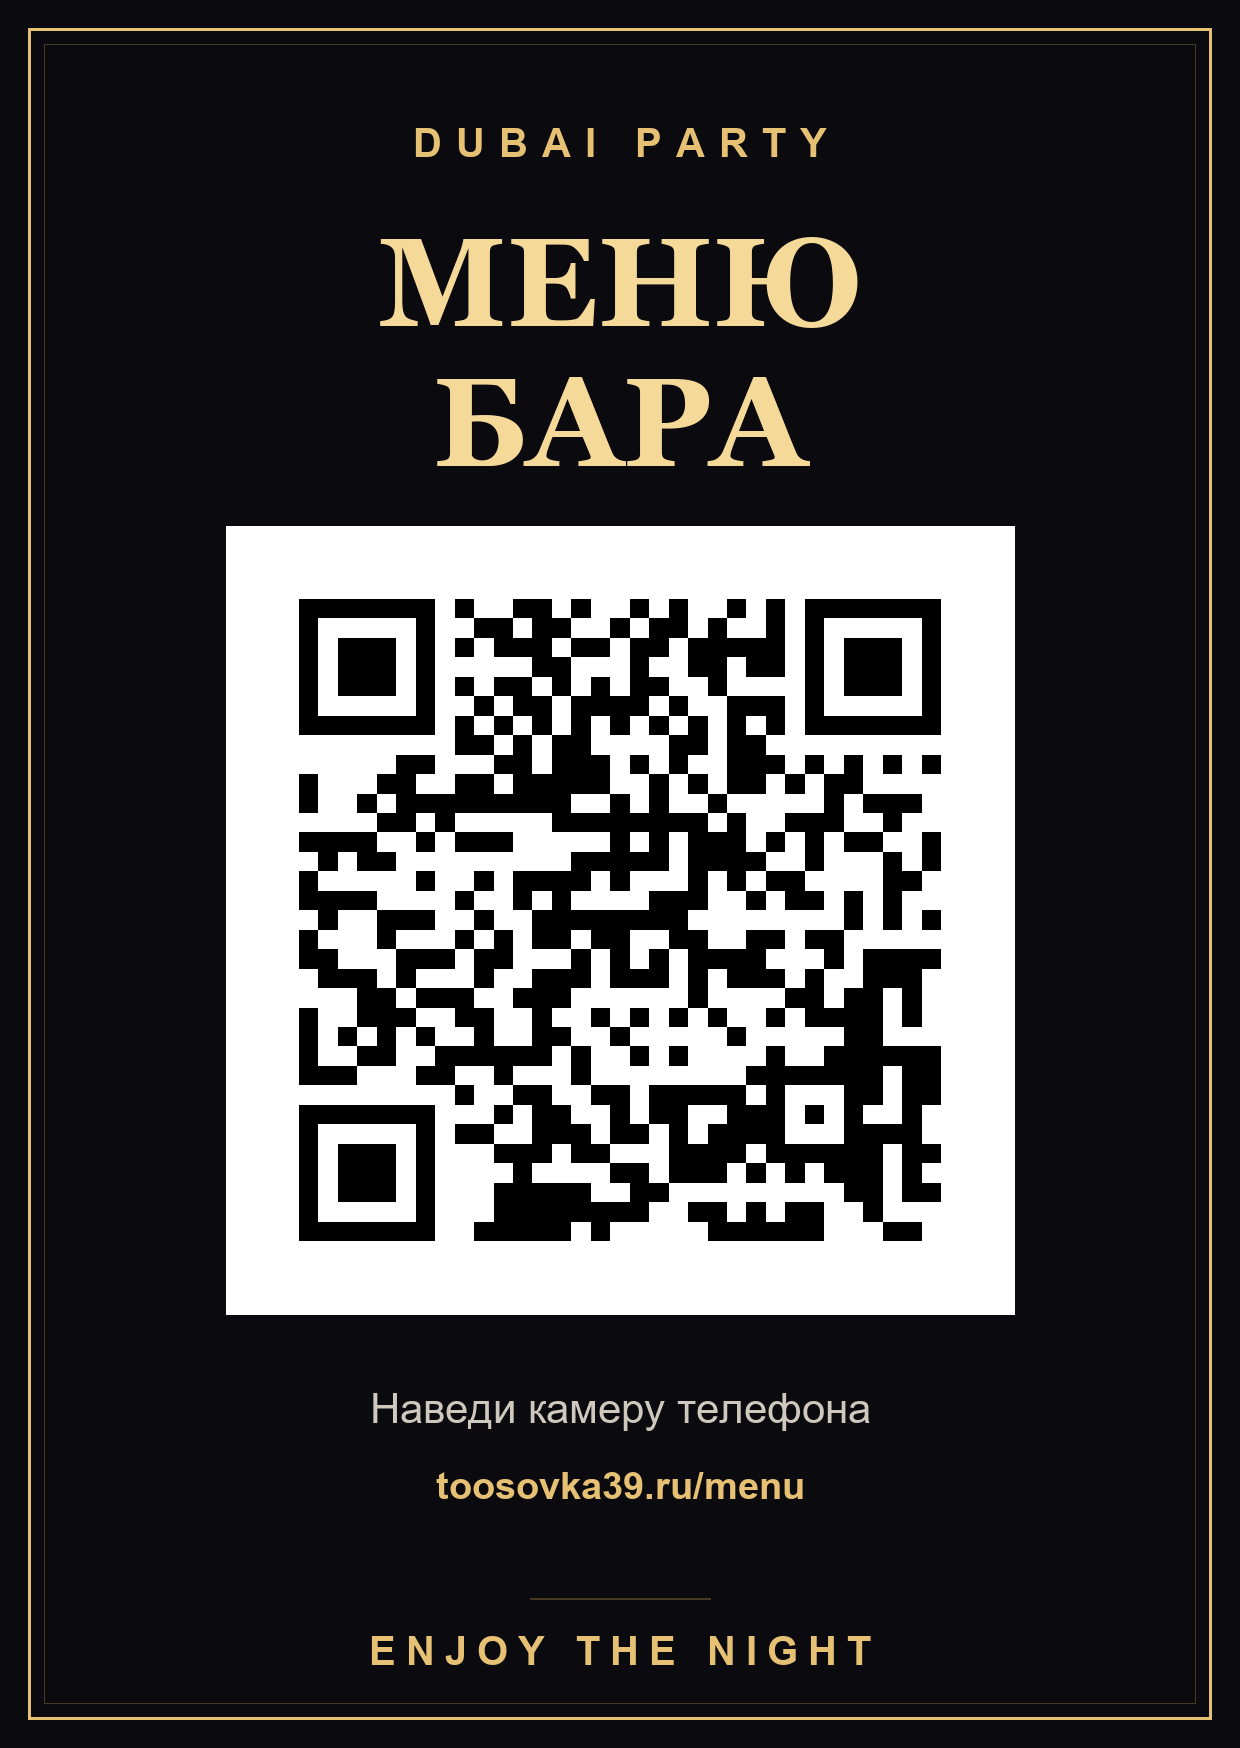
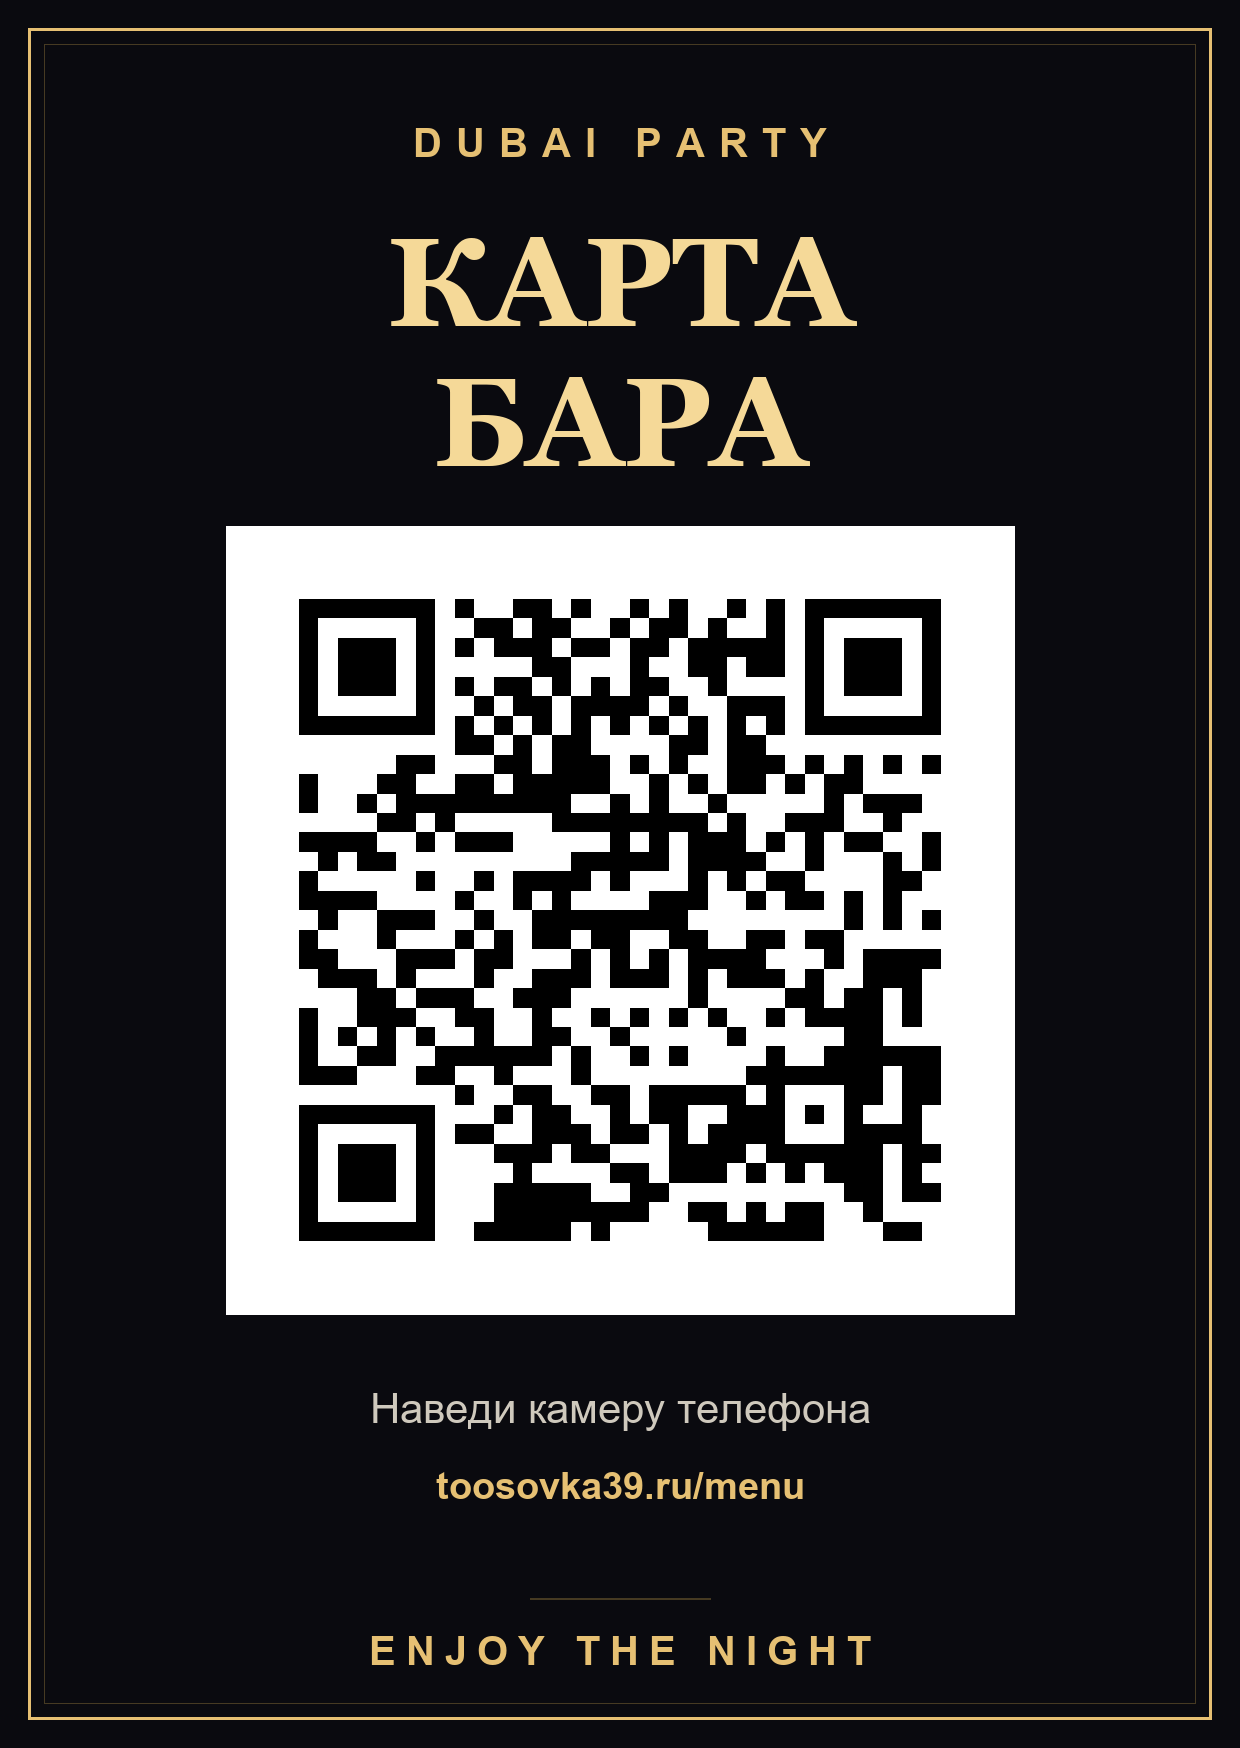
feat: кнопка «Карта бара» по центру первого экрана
- «Меню бара» переименовано в «Карта бара» везде: шапка, футер,
  страница после оплаты, сама страница и табличка с QR-кодом
- кнопка переехала из угла шапки в центр под логотип — её видно
  сразу, до прокрутки; стала крупнее и в золотой рамке

Changed region(s): [[0.3065, 0.1236, 0.7048, 0.1854]]

diff --git a/public/menu.html b/public/menu.html
@@ -5,9 +5,9 @@
   <!-- пинч-зум разрешён специально: меню читают с телефона и увеличивают пальцами -->
   <meta name="viewport" content="width=device-width, initial-scale=1, maximum-scale=6, user-scalable=yes, viewport-fit=cover" />
   <meta name="theme-color" content="#06060a" />
-  <title>Меню бара — DUBAI PARTY</title>
-  <meta name="description" content="Барное меню DUBAI PARTY: фирменные коктейли, классика, шоты и сеты шотов." />
-  <meta property="og:title" content="Меню бара — DUBAI PARTY" />
+  <title>Карта бара — DUBAI PARTY</title>
+  <meta name="description" content="Карта бара DUBAI PARTY: фирменные коктейли, классика, шоты и сеты шотов." />
+  <meta property="og:title" content="Карта бара — DUBAI PARTY" />
   <meta property="og:image" content="https://toosovka39.ru/menu.jpg" />
 
   <!-- Картинка меню — единственное тяжёлое на странице, поэтому качаем её первой -->
@@ -121,20 +121,20 @@
 
   <header class="bar">
     <a class="bar__back" href="/">← На сайт</a>
-    <span class="bar__title">Меню бара</span>
+    <span class="bar__title">Карта бара</span>
     <a class="bar__full" href="menu.webp" target="_blank" rel="noopener">Оригинал</a>
   </header>
 
   <div class="viewer" id="viewer">
     <picture>
       <source srcset="menu.webp" type="image/webp" />
-      <img src="menu.jpg" alt="Барное меню DUBAI PARTY: коктейли, шоты, сеты шотов"
+      <img src="menu.jpg" alt="Карта бара DUBAI PARTY: коктейли, шоты, сеты шотов"
            id="menu-img" width="1536" height="1024" fetchpriority="high" decoding="async" />
     </picture>
   </div>
 
   <div class="foot">
-    <p class="hint" id="hint">Нажми на меню, чтобы приблизить · поверни телефон боком — станет крупнее</p>
+    <p class="hint" id="hint">Нажми на карту, чтобы приблизить · поверни телефон боком — станет крупнее</p>
     <a class="buy" href="/#tickets">Взять билет на вечеринку →</a>
   </div>
 
@@ -158,7 +158,7 @@
         hint.textContent = "Нажми ещё раз, чтобы отдалить";
       } else {
         viewer.scrollTo(0, 0);
-        hint.textContent = "Нажми на меню, чтобы приблизить · поверни телефон боком — станет крупнее";
+        hint.textContent = "Нажми на карту, чтобы приблизить · поверни телефон боком — станет крупнее";
       }
     });
 

diff --git a/public/style.css b/public/style.css
@@ -51,14 +51,8 @@ body::after {
 
 /* ---------- Шапка ---------- */
 .topbar {
-  padding: 22px 0 26px;
-}
-/* Логотип слева, кнопка меню справа — меню должно быть видно сразу, без прокрутки */
-.topbar__row {
-  display: flex;
-  align-items: center;
-  justify-content: space-between;
-  gap: 14px;
+  text-align: center;
+  padding: 22px 0 24px;
 }
 .brand {
   font-family: var(--font-display);
@@ -69,29 +63,31 @@ body::after {
   text-shadow: 0 2px 20px rgba(0,0,0,0.6);
 }
 .brand span { color: var(--gold); margin-left: 7px; }
-.topbar__menu {
-  flex: 0 0 auto;
-  padding: 9px 18px;
-  border-radius: 100px;
-  border: 1px solid var(--line);
-  background: rgba(0, 0, 0, 0.42);
-  backdrop-filter: blur(8px);
-  color: var(--gold-2);
-  font-size: 0.9rem;
-  font-weight: 600;
-  letter-spacing: 0.02em;
-  white-space: nowrap;
-  transition: border-color 0.2s ease, background 0.2s ease;
-}
-.topbar__menu:hover { border-color: var(--gold); background: rgba(230, 192, 115, 0.1); }
 .event-meta {
-  margin-top: 16px;
-  text-align: center;
+  margin-top: 10px;
   color: var(--muted);
   font-size: 0.9rem;
   letter-spacing: 0.02em;
   text-shadow: 0 1px 8px rgba(0,0,0,0.7);
 }
+/* Карта бара — по центру под шапкой: видно сразу, до всякой прокрутки */
+.topbar__menu {
+  display: inline-flex;
+  align-items: center;
+  margin-top: 18px;
+  padding: 12px 26px;
+  border-radius: 100px;
+  border: 1px solid var(--gold);
+  background: rgba(0, 0, 0, 0.42);
+  backdrop-filter: blur(8px);
+  color: var(--gold-2);
+  font-size: 0.98rem;
+  font-weight: 700;
+  letter-spacing: 0.02em;
+  white-space: nowrap;
+  transition: background 0.2s ease, transform 0.2s ease;
+}
+.topbar__menu:hover { background: rgba(230, 192, 115, 0.12); transform: translateY(-2px); }
 
 /* ---------- Главный текст ---------- */
 .hero { text-align: center; padding: 0 0 30px; }

diff --git a/public/index.html b/public/index.html
@@ -39,12 +39,10 @@
 
   <main class="page">
     <header class="topbar">
-      <div class="topbar__row">
-        <a class="brand" href="/">DUBAI<span>PARTY</span></a>
-        <!-- Меню бара: та же страница, на которую ведёт QR-код со столов -->
-        <a class="topbar__menu" href="/menu">Меню бара</a>
-      </div>
+      <a class="brand" href="/">DUBAI<span>PARTY</span></a>
       <p class="event-meta">1 августа · Правая Набережная 21 · Калининград</p>
+      <!-- Карта бара: та же страница, на которую ведёт QR-код со столов -->
+      <a class="topbar__menu" href="/menu">Карта бара →</a>
     </header>
 
     <section class="hero">
@@ -207,7 +205,7 @@
     </section>
 
     <section class="actions">
-      <a class="btn btn--line" href="/menu">Меню бара</a>
+      <a class="btn btn--line" href="/menu">Карта бара</a>
       <a class="btn btn--line" href="https://t.me/TOOSOVKA39" target="_blank" rel="noopener">Telegram</a>
       <a class="btn btn--line" href="https://instagram.com/imgolod" target="_blank" rel="noopener">Instagram</a>
     </section>

diff --git a/public/success.html b/public/success.html
@@ -88,7 +88,7 @@
           <p>${info}</p>
         </div>
         <div style="display:grid; gap:10px">
-          <a class="btn btn--line btn--full" href="/menu" style="text-decoration:none">Посмотреть меню бара</a>
+          <a class="btn btn--line btn--full" href="/menu" style="text-decoration:none">Посмотреть карту бара</a>
           <a class="btn btn--buy btn--full" href="/" style="text-decoration:none">На главную</a>
         </div>`;
     }

diff --git a/CLAUDE.md b/CLAUDE.md
@@ -58,7 +58,7 @@ npm run dev        # разработка с авто-перезапуском: 
 
 **Фронтенд `public/`:**
 - `index.html` → `app.js` — витрина, колесо, FAQ, липкая кнопка и оформление заказа (`/api/status`, `/api/wheel/spin`, `/api/checkout`; в боевом режиме редирект на `paymentUrl`). Секторы колеса рисует JS (`conic-gradient` + повёрнутые метки), угол остановки считается от индекса сектора с сервера.
-- `menu.html` — **меню бара картинкой**, отдельная лёгкая страница (стили и скрипт внутри неё, шрифты не грузятся). Открывается и по короткой ссылке `/menu` — её отдаёт `server.js` через `sendFile`, без редиректа, потому что на эту ссылку ведёт QR-код со столов (`qr/menu-qr*.png|svg`, сгенерированы на `https://toosovka39.ru/menu`). Картинка лежит в двух видах: `menu.webp` (~370 КБ, основной) и `menu.jpg` (фолбэк в `<picture>`); исходный PNG на 2,3 МБ в репозиторий не кладём. Пока картинка летит по сети, на её месте стоит размытая мини-копия, вшитая в CSS строкой base64. Тап по меню приближает картинку к месту нажатия (класс `viewer--zoom`), пинч-зум разрешён специально — `maximum-scale=6` в мета-теге viewport.
+- `menu.html` — **карта бара картинкой** (в интерфейсе везде «Карта бара», файлы остались `menu.*`), отдельная лёгкая страница (стили и скрипт внутри неё, шрифты не грузятся). Открывается и по короткой ссылке `/menu` — её отдаёт `server.js` через `sendFile`, без редиректа, потому что на эту ссылку ведёт QR-код со столов (`qr/menu-qr*.png|svg`, сгенерированы на `https://toosovka39.ru/menu`). Картинка лежит в двух видах: `menu.webp` (~370 КБ, основной) и `menu.jpg` (фолбэк в `<picture>`); исходный PNG на 2,3 МБ в репозиторий не кладём. Пока картинка летит по сети, на её месте стоит размытая мини-копия, вшитая в CSS строкой base64. Тап по меню приближает картинку к месту нажатия (класс `viewer--zoom`), пинч-зум разрешён специально — `maximum-scale=6` в мета-теге viewport.
 - `success.html` — результат оплаты, скрипт встроен в страницу.
 - `admin.html` — веб-страница охраны/базы заказов, скрипт **встроен в саму страницу** (не отдельный файл). Защищена паролем `ADMIN_PASSWORD`, который передаётся в API через заголовок `x-admin-password`.
 - `public/script.js` — **не подключён ни к одной странице** (устаревший файл), не трогай его при правках витрины — правь `app.js`.
